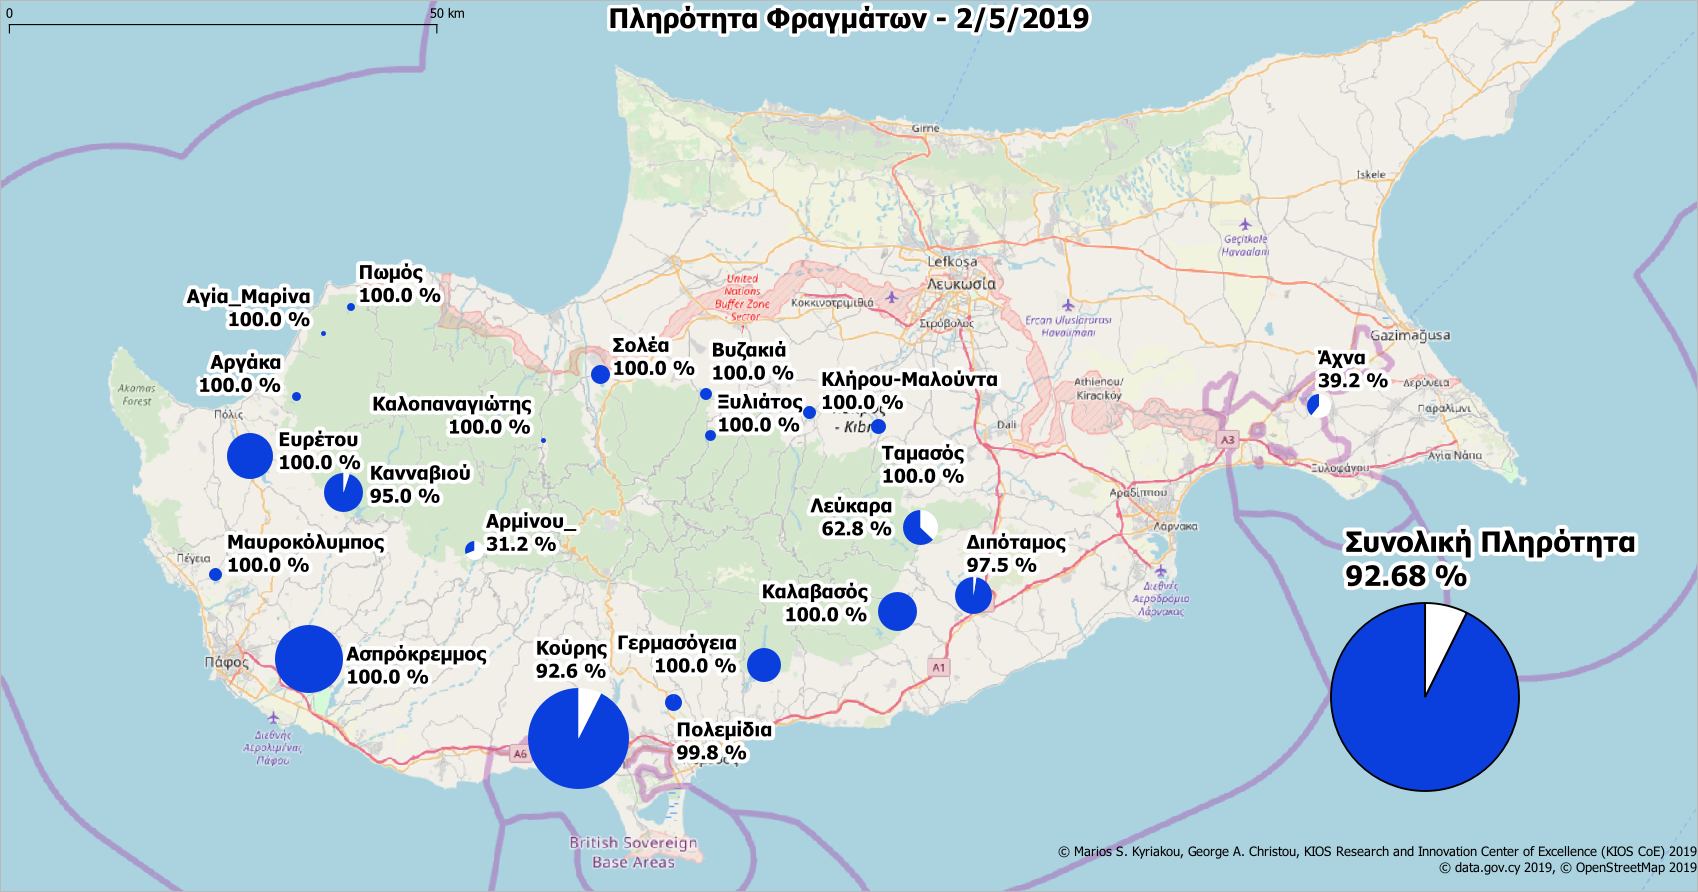
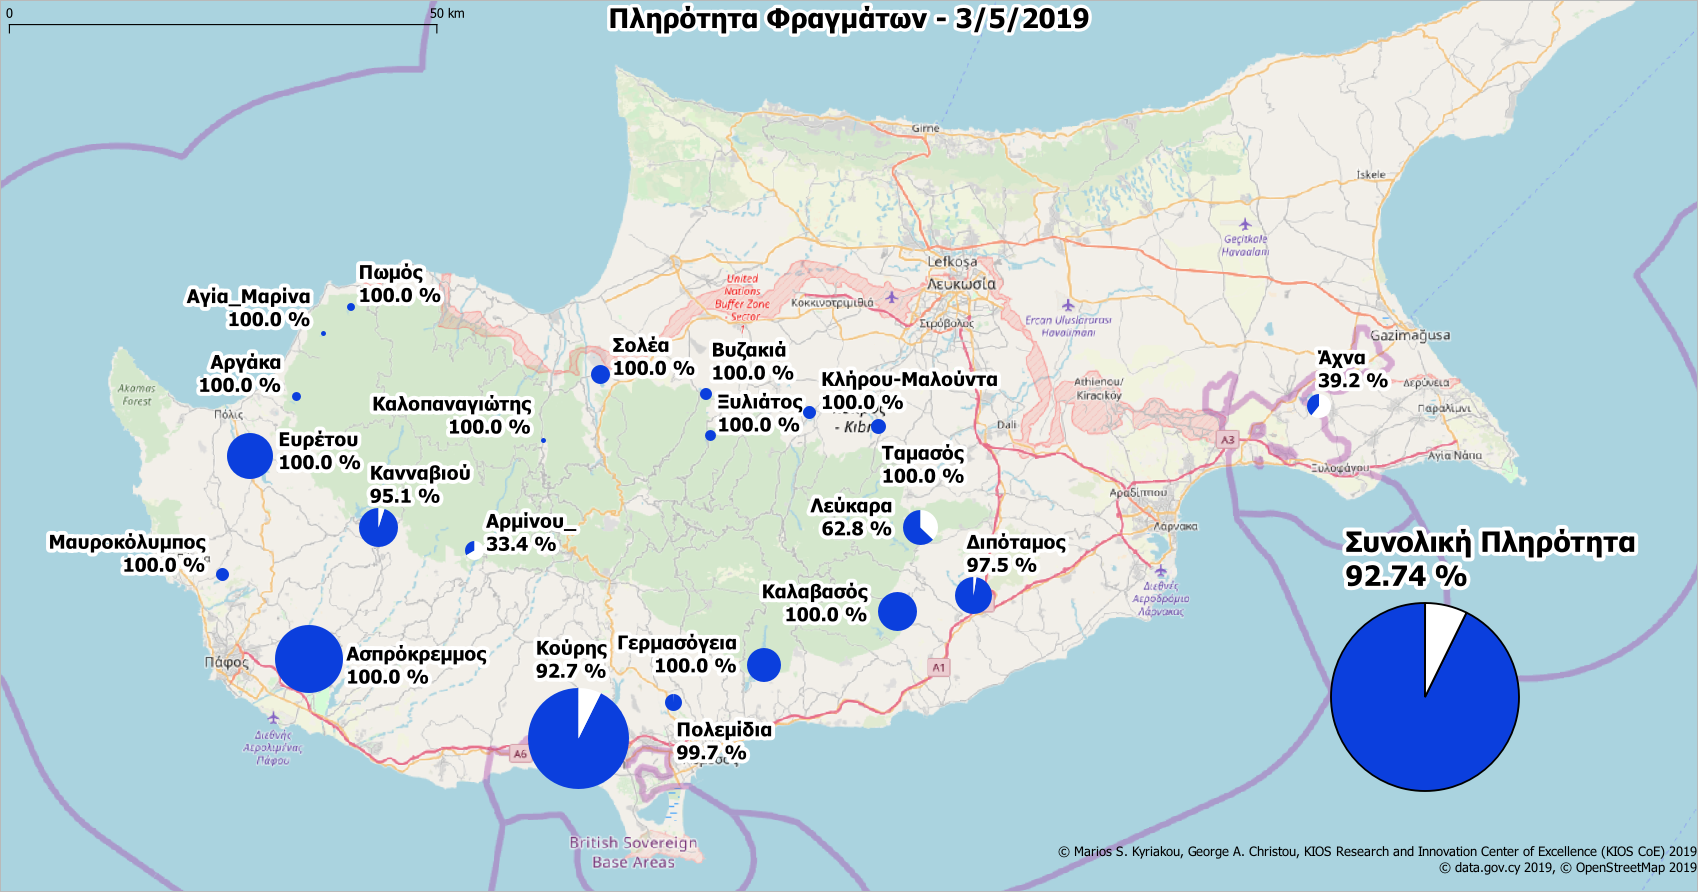
update

diff --git a/dams.html b/dams.html
@@ -11,7 +11,7 @@
          1px  1px 7px WHITE;
     }
     }
-    </style><p><b>Ημερομηνία ανανέωσης δεδομένων: 2/5/2019<p><font color="#0000FF">Η συνολική πληρότητα στα φράγματα είναι 92.68%</font>.<p>Υπάρχουν συνολικά <font color="#0000FF">14</font> φράγματα με πληρότητα <font color="#0000FF">100%</font>.<p>Υπάρχουν <font color="#0000FF">19</font> φράγματα με πληρότητα πάνω από <font color="#0000FF">50%</font>.</b><p><b>Υπάρχουν δεδομένα για 21 φράγματα. Συνολικά υπάρχουν 108 φράγματα. <b><p><p><p>* Ε.Κ.Μ. - Εκατομμύρια Kυβικά  Mέτρα.<table width="444">
+    </style><p><b>Ημερομηνία ανανέωσης δεδομένων: 3/5/2019<p><font color="#0000FF">Η συνολική πληρότητα στα φράγματα είναι 92.74%</font>.<p>Υπάρχουν συνολικά <font color="#0000FF">14</font> φράγματα με πληρότητα <font color="#0000FF">100%</font>.<p>Υπάρχουν <font color="#0000FF">19</font> φράγματα με πληρότητα πάνω από <font color="#0000FF">50%</font>.</b><p><b>Υπάρχουν δεδομένα για 21 φράγματα. Συνολικά υπάρχουν 108 φράγματα. <b><p><p><p>* Ε.Κ.Μ. - Εκατομμύρια Kυβικά  Mέτρα.<table width="444">
     <tbody>
     <tr>
     <th width="2"><b></b></th>
@@ -19,7 +19,7 @@
     <th width="60"><b>Χωρητικότητα (Ε.Κ.Μ.)</b></th>
     <th width="60"><b>Σημερινή (Ε.Κ.Μ.)</b></th>
     <th width="60"><b> Σημερινή Πληρότητα (%)</b></th>
-    </tr><tr><td bgcolor=#1A9641 class=border-white>1</td><td bgcolor=#1A9641 class=border-white>Κούρης</td><td bgcolor=#1A9641 class=border-white>115.0</td><td bgcolor=#1A9641 class=border-white>106.52</td><td bgcolor=#1A9641 class=border-white>92.6</td></tr><tr><tr><td bgcolor=#1A9641 class=border-white>2</td><td bgcolor=#1A9641 class=border-white>Ασπρόκρεμμος</td><td bgcolor=#1A9641 class=border-white>52.375</td><td bgcolor=#1A9641 class=border-white>52.375</td><td bgcolor=#1A9641 class=border-white>100.0</td></tr><tr><tr><td bgcolor=#1A9641 class=border-white>3</td><td bgcolor=#1A9641 class=border-white>Ευρέτου</td><td bgcolor=#1A9641 class=border-white>24.0</td><td bgcolor=#1A9641 class=border-white>24.0</td><td bgcolor=#1A9641 class=border-white>100.0</td></tr><tr><tr><td bgcolor=#1A9641 class=border-white>4</td><td bgcolor=#1A9641 class=border-white>Κανναβιού</td><td bgcolor=#1A9641 class=border-white>17.168</td><td bgcolor=#1A9641 class=border-white>16.316</td><td bgcolor=#1A9641 class=border-white>95.0</td></tr><tr><tr><td bgcolor=#1A9641 class=border-white>5</td><td bgcolor=#1A9641 class=border-white>Καλαβασός</td><td bgcolor=#1A9641 class=border-white>17.1</td><td bgcolor=#1A9641 class=border-white>17.1</td><td bgcolor=#1A9641 class=border-white>100.0</td></tr><tr><tr><td bgcolor=#1A9641 class=border-white>6</td><td bgcolor=#1A9641 class=border-white>Διπόταμος</td><td bgcolor=#1A9641 class=border-white>15.5</td><td bgcolor=#1A9641 class=border-white>15.11</td><td bgcolor=#1A9641 class=border-white>97.5</td></tr><tr><tr><td bgcolor=#A6D96A class=border-white>7</td><td bgcolor=#A6D96A class=border-white>Λεύκαρα</td><td bgcolor=#A6D96A class=border-white>13.85</td><td bgcolor=#A6D96A class=border-white>8.692</td><td bgcolor=#A6D96A class=border-white>62.8</td></tr><tr><tr><td bgcolor=#1A9641 class=border-white>8</td><td bgcolor=#1A9641 class=border-white>Γερμασόγεια</td><td bgcolor=#1A9641 class=border-white>13.5</td><td bgcolor=#1A9641 class=border-white>13.5</td><td bgcolor=#1A9641 class=border-white>100.0</td></tr><tr><tr><td bgcolor=#FED690 class=border-white>9</td><td bgcolor=#FED690 class=border-white>Άχνα</td><td bgcolor=#FED690 class=border-white>6.8</td><td bgcolor=#FED690 class=border-white>2.667</td><td bgcolor=#FED690 class=border-white>39.2</td></tr><tr><tr><td bgcolor=#1A9641 class=border-white>10</td><td bgcolor=#1A9641 class=border-white>Σολέα</td><td bgcolor=#1A9641 class=border-white>4.454</td><td bgcolor=#1A9641 class=border-white>4.454</td><td bgcolor=#1A9641 class=border-white>100.0</td></tr><tr><tr><td bgcolor=#FED690 class=border-white>11</td><td bgcolor=#FED690 class=border-white>Αρμίνου_</td><td bgcolor=#FED690 class=border-white>4.3</td><td bgcolor=#FED690 class=border-white>1.343</td><td bgcolor=#FED690 class=border-white>31.2</td></tr><tr><tr><td bgcolor=#1A9641 class=border-white>12</td><td bgcolor=#1A9641 class=border-white>Πολεμίδια</td><td bgcolor=#1A9641 class=border-white>3.4</td><td bgcolor=#1A9641 class=border-white>3.392</td><td bgcolor=#1A9641 class=border-white>99.8</td></tr><tr><tr><td bgcolor=#1A9641 class=border-white>13</td><td bgcolor=#1A9641 class=border-white>Ταμασός</td><td bgcolor=#1A9641 class=border-white>2.8</td><td bgcolor=#1A9641 class=border-white>2.8</td><td bgcolor=#1A9641 class=border-white>100.0</td></tr><tr><tr><td bgcolor=#1A9641 class=border-white>14</td><td bgcolor=#1A9641 class=border-white>Μαυροκόλυμπος</td><td bgcolor=#1A9641 class=border-white>2.18</td><td bgcolor=#1A9641 class=border-white>2.18</td><td bgcolor=#1A9641 class=border-white>100.0</td></tr><tr><tr><td bgcolor=#1A9641 class=border-white>15</td><td bgcolor=#1A9641 class=border-white>Κλήρου-Μαλούντα</td><td bgcolor=#1A9641 class=border-white>2.0</td><td bgcolor=#1A9641 class=border-white>2.0</td><td bgcolor=#1A9641 class=border-white>100.0</td></tr><tr><tr><td bgcolor=#1A9641 class=border-white>16</td><td bgcolor=#1A9641 class=border-white>Βυζακιά</td><td bgcolor=#1A9641 class=border-white>1.69</td><td bgcolor=#1A9641 class=border-white>1.69</td><td bgcolor=#1A9641 class=border-white>100.0</td></tr><tr><tr><td bgcolor=#1A9641 class=border-white>17</td><td bgcolor=#1A9641 class=border-white>Ξυλιάτος</td><td bgcolor=#1A9641 class=border-white>1.43</td><td bgcolor=#1A9641 class=border-white>1.43</td><td bgcolor=#1A9641 class=border-white>100.0</td></tr><tr><tr><td bgcolor=#1A9641 class=border-white>18</td><td bgcolor=#1A9641 class=border-white>Αργάκα</td><td bgcolor=#1A9641 class=border-white>0.99</td><td bgcolor=#1A9641 class=border-white>0.99</td><td bgcolor=#1A9641 class=border-white>100.0</td></tr><tr><tr><td bgcolor=#1A9641 class=border-white>19</td><td bgcolor=#1A9641 class=border-white>Πωμός</td><td bgcolor=#1A9641 class=border-white>0.86</td><td bgcolor=#1A9641 class=border-white>0.86</td><td bgcolor=#1A9641 class=border-white>100.0</td></tr><tr><tr><td bgcolor=#1A9641 class=border-white>20</td><td bgcolor=#1A9641 class=border-white>Καλοπαναγιώτης</td><td bgcolor=#1A9641 class=border-white>0.363</td><td bgcolor=#1A9641 class=border-white>0.363</td><td bgcolor=#1A9641 class=border-white>100.0</td></tr><tr><tr><td bgcolor=#1A9641 class=border-white>21</td><td bgcolor=#1A9641 class=border-white>Αγία_Μαρίνα</td><td bgcolor=#1A9641 class=border-white>0.298</td><td bgcolor=#1A9641 class=border-white>0.298</td><td bgcolor=#1A9641 class=border-white>100.0</td></tr><tr>
+    </tr><tr><td bgcolor=#1A9641 class=border-white>1</td><td bgcolor=#1A9641 class=border-white>Κούρης</td><td bgcolor=#1A9641 class=border-white>115.0</td><td bgcolor=#1A9641 class=border-white>106.583</td><td bgcolor=#1A9641 class=border-white>92.7</td></tr><tr><tr><td bgcolor=#1A9641 class=border-white>2</td><td bgcolor=#1A9641 class=border-white>Ασπρόκρεμμος</td><td bgcolor=#1A9641 class=border-white>52.375</td><td bgcolor=#1A9641 class=border-white>52.375</td><td bgcolor=#1A9641 class=border-white>100.0</td></tr><tr><tr><td bgcolor=#1A9641 class=border-white>3</td><td bgcolor=#1A9641 class=border-white>Ευρέτου</td><td bgcolor=#1A9641 class=border-white>24.0</td><td bgcolor=#1A9641 class=border-white>24.0</td><td bgcolor=#1A9641 class=border-white>100.0</td></tr><tr><tr><td bgcolor=#1A9641 class=border-white>4</td><td bgcolor=#1A9641 class=border-white>Κανναβιού</td><td bgcolor=#1A9641 class=border-white>17.168</td><td bgcolor=#1A9641 class=border-white>16.325</td><td bgcolor=#1A9641 class=border-white>95.1</td></tr><tr><tr><td bgcolor=#1A9641 class=border-white>5</td><td bgcolor=#1A9641 class=border-white>Καλαβασός</td><td bgcolor=#1A9641 class=border-white>17.1</td><td bgcolor=#1A9641 class=border-white>17.1</td><td bgcolor=#1A9641 class=border-white>100.0</td></tr><tr><tr><td bgcolor=#1A9641 class=border-white>6</td><td bgcolor=#1A9641 class=border-white>Διπόταμος</td><td bgcolor=#1A9641 class=border-white>15.5</td><td bgcolor=#1A9641 class=border-white>15.12</td><td bgcolor=#1A9641 class=border-white>97.5</td></tr><tr><tr><td bgcolor=#A6D96A class=border-white>7</td><td bgcolor=#A6D96A class=border-white>Λεύκαρα</td><td bgcolor=#A6D96A class=border-white>13.85</td><td bgcolor=#A6D96A class=border-white>8.702</td><td bgcolor=#A6D96A class=border-white>62.8</td></tr><tr><tr><td bgcolor=#1A9641 class=border-white>8</td><td bgcolor=#1A9641 class=border-white>Γερμασόγεια</td><td bgcolor=#1A9641 class=border-white>13.5</td><td bgcolor=#1A9641 class=border-white>13.5</td><td bgcolor=#1A9641 class=border-white>100.0</td></tr><tr><tr><td bgcolor=#FED690 class=border-white>9</td><td bgcolor=#FED690 class=border-white>Άχνα</td><td bgcolor=#FED690 class=border-white>6.8</td><td bgcolor=#FED690 class=border-white>2.667</td><td bgcolor=#FED690 class=border-white>39.2</td></tr><tr><tr><td bgcolor=#1A9641 class=border-white>10</td><td bgcolor=#1A9641 class=border-white>Σολέα</td><td bgcolor=#1A9641 class=border-white>4.454</td><td bgcolor=#1A9641 class=border-white>4.454</td><td bgcolor=#1A9641 class=border-white>100.0</td></tr><tr><tr><td bgcolor=#FED690 class=border-white>11</td><td bgcolor=#FED690 class=border-white>Αρμίνου_</td><td bgcolor=#FED690 class=border-white>4.3</td><td bgcolor=#FED690 class=border-white>1.436</td><td bgcolor=#FED690 class=border-white>33.4</td></tr><tr><tr><td bgcolor=#1A9641 class=border-white>12</td><td bgcolor=#1A9641 class=border-white>Πολεμίδια</td><td bgcolor=#1A9641 class=border-white>3.4</td><td bgcolor=#1A9641 class=border-white>3.389</td><td bgcolor=#1A9641 class=border-white>99.7</td></tr><tr><tr><td bgcolor=#1A9641 class=border-white>13</td><td bgcolor=#1A9641 class=border-white>Ταμασός</td><td bgcolor=#1A9641 class=border-white>2.8</td><td bgcolor=#1A9641 class=border-white>2.8</td><td bgcolor=#1A9641 class=border-white>100.0</td></tr><tr><tr><td bgcolor=#1A9641 class=border-white>14</td><td bgcolor=#1A9641 class=border-white>Μαυροκόλυμπος</td><td bgcolor=#1A9641 class=border-white>2.18</td><td bgcolor=#1A9641 class=border-white>2.18</td><td bgcolor=#1A9641 class=border-white>100.0</td></tr><tr><tr><td bgcolor=#1A9641 class=border-white>15</td><td bgcolor=#1A9641 class=border-white>Κλήρου-Μαλούντα</td><td bgcolor=#1A9641 class=border-white>2.0</td><td bgcolor=#1A9641 class=border-white>2.0</td><td bgcolor=#1A9641 class=border-white>100.0</td></tr><tr><tr><td bgcolor=#1A9641 class=border-white>16</td><td bgcolor=#1A9641 class=border-white>Βυζακιά</td><td bgcolor=#1A9641 class=border-white>1.69</td><td bgcolor=#1A9641 class=border-white>1.69</td><td bgcolor=#1A9641 class=border-white>100.0</td></tr><tr><tr><td bgcolor=#1A9641 class=border-white>17</td><td bgcolor=#1A9641 class=border-white>Ξυλιάτος</td><td bgcolor=#1A9641 class=border-white>1.43</td><td bgcolor=#1A9641 class=border-white>1.43</td><td bgcolor=#1A9641 class=border-white>100.0</td></tr><tr><tr><td bgcolor=#1A9641 class=border-white>18</td><td bgcolor=#1A9641 class=border-white>Αργάκα</td><td bgcolor=#1A9641 class=border-white>0.99</td><td bgcolor=#1A9641 class=border-white>0.99</td><td bgcolor=#1A9641 class=border-white>100.0</td></tr><tr><tr><td bgcolor=#1A9641 class=border-white>19</td><td bgcolor=#1A9641 class=border-white>Πωμός</td><td bgcolor=#1A9641 class=border-white>0.86</td><td bgcolor=#1A9641 class=border-white>0.86</td><td bgcolor=#1A9641 class=border-white>100.0</td></tr><tr><tr><td bgcolor=#1A9641 class=border-white>20</td><td bgcolor=#1A9641 class=border-white>Καλοπαναγιώτης</td><td bgcolor=#1A9641 class=border-white>0.363</td><td bgcolor=#1A9641 class=border-white>0.363</td><td bgcolor=#1A9641 class=border-white>100.0</td></tr><tr><tr><td bgcolor=#1A9641 class=border-white>21</td><td bgcolor=#1A9641 class=border-white>Αγία_Μαρίνα</td><td bgcolor=#1A9641 class=border-white>0.298</td><td bgcolor=#1A9641 class=border-white>0.298</td><td bgcolor=#1A9641 class=border-white>100.0</td></tr><tr>
     </tr>
     <tr>
     <td></td>
